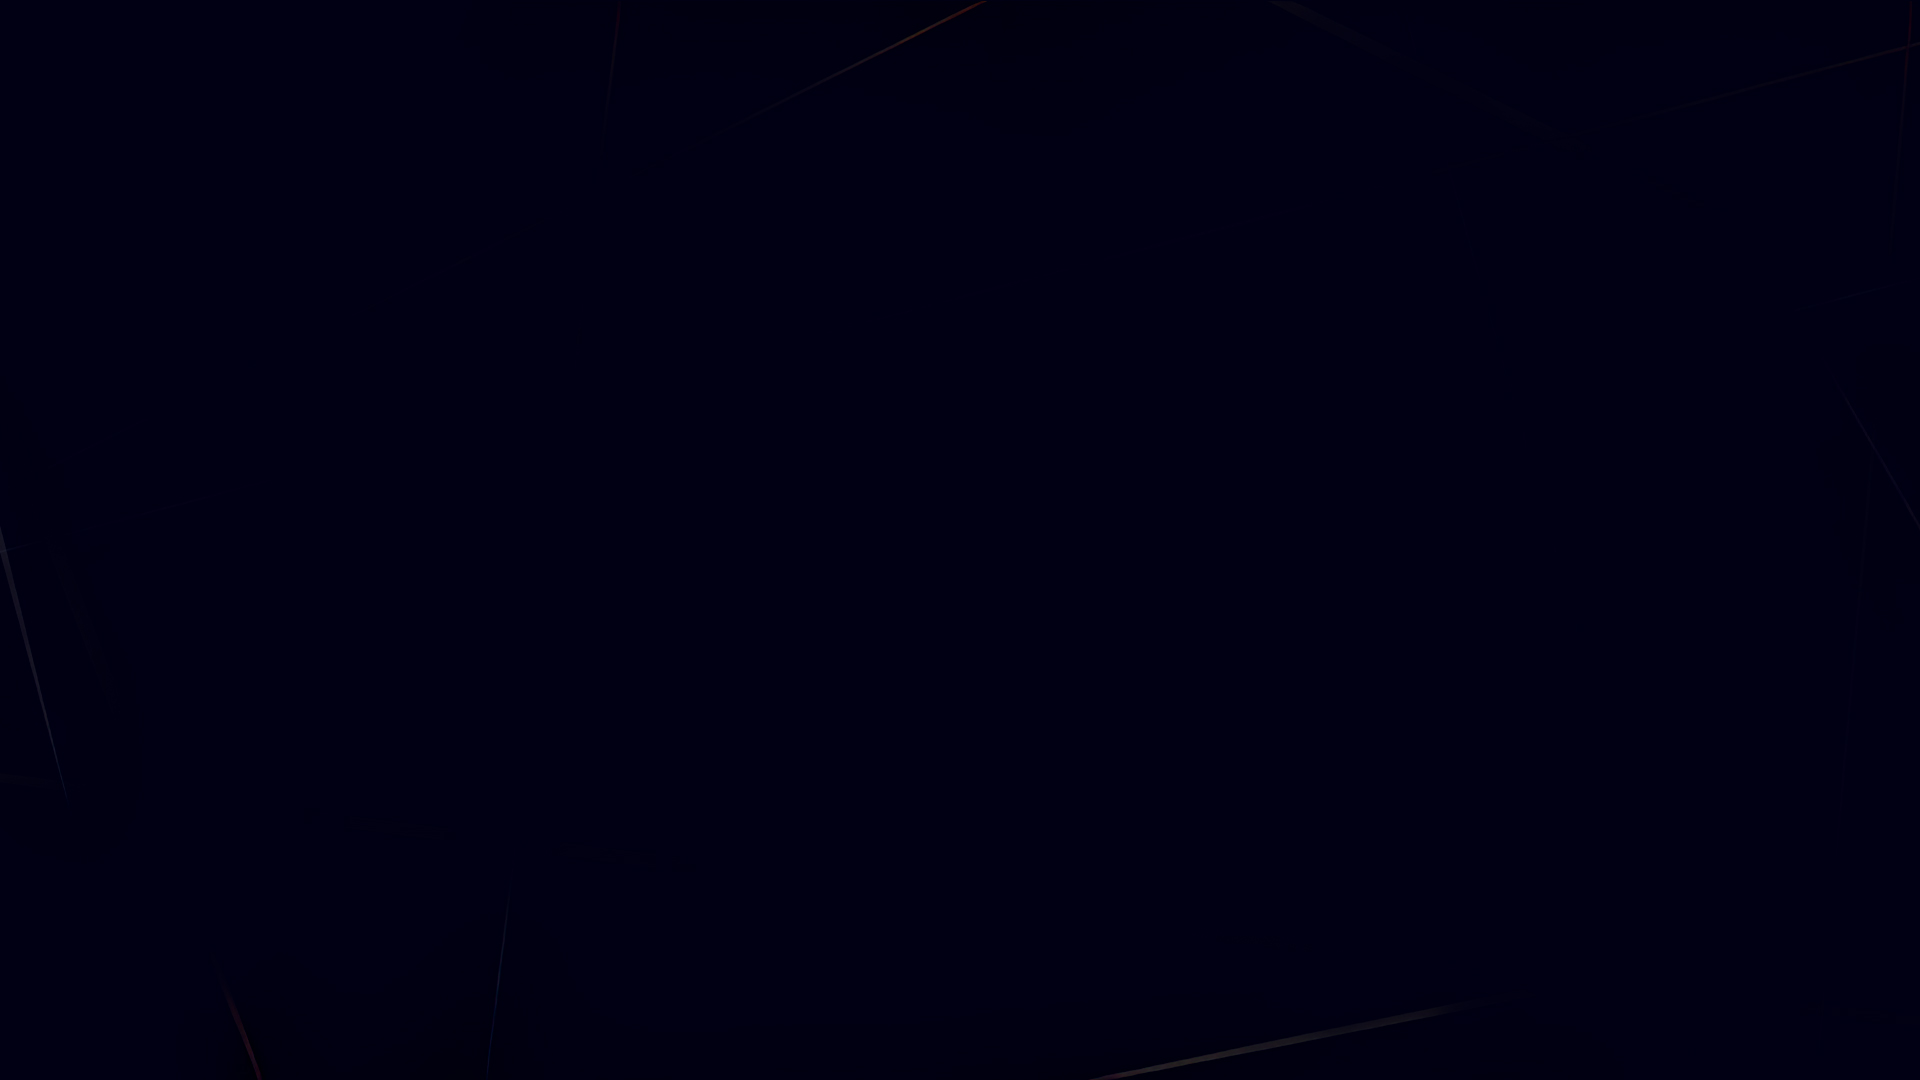
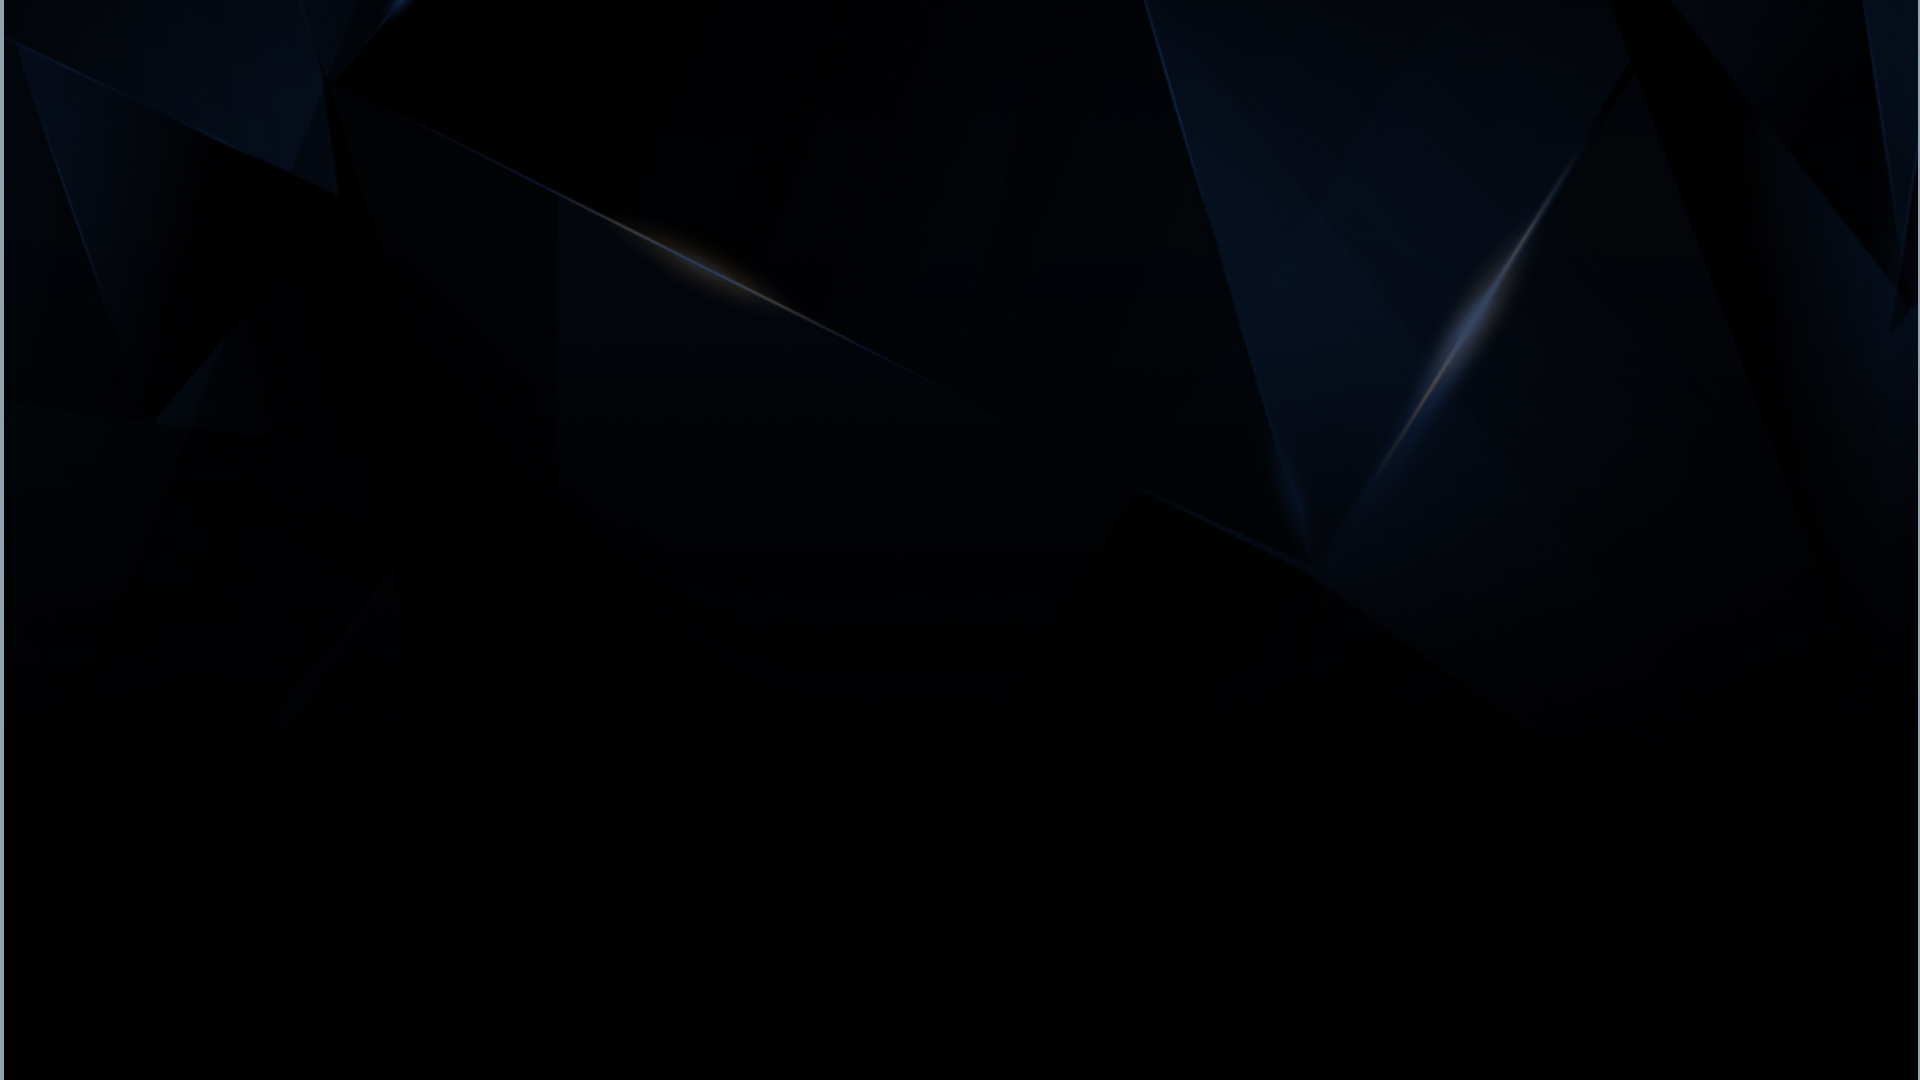
adicionadas mais artes e troca de background pela 4 vez

diff --git a/src/components/front-page-carousel/Franqueado.js b/src/components/front-page-carousel/Franqueado.js
@@ -12,7 +12,7 @@ export function Franqueado() {
   return (
     <div className="max-w-tela bg-transparent flex justify-between items-center w-screen h-screen sm:px-36 px-7 py-7">
       <div className="w-1/2 mt-36">
-        <Image src={logoBig} alt="logoBig" width={400} height={400} />
+        <Image src={logoBig} alt="logoBig" width={561} height={602} />
       </div>
       <div className="flex flex-col items-center sm:w-1/2 w-1/3 text-left  mr-auto">
         <div data-aos="zoom-in-left" data-aos-duration="2500">

diff --git a/src/components/front-page-carousel/FreeCourse.js b/src/components/front-page-carousel/FreeCourse.js
@@ -12,7 +12,7 @@ export function FreeCourse() {
   return (
     <div className="max-w-tela bg-transparent flex justify-between items-center w-screen h-screen sm:px-36 px-7 py-7">
       <div className="w-1/2 mt-36">
-        <Image src={logoBig} alt="logoBig" width={500} height={775} />
+        <Image src={logoBig} alt="logoBig" width={579} height={620} />
       </div>
       <div className="flex flex-col items-center sm:w-1/2 w-1/3 text-left  mr-auto">
         <h1

diff --git a/src/pages/nossas-empresas/comunidade-mulheres-investidoras.js b/src/pages/nossas-empresas/comunidade-mulheres-investidoras.js
@@ -15,8 +15,7 @@ export default function ComunidadeMulheres() {
           <h1 className=" sm:text-4xl text-2xl">
             COMUNIDADE MULHERES INVESTIDORAS
           </h1>
-          <h1 className=" sm:text-4xl text-2xl"
-          >
+          <h1 className=" sm:text-4xl text-2xl">
             Fazendo nossas próprias escolhas.
           </h1>
           <br />

diff --git a/src/components/front-page-carousel/Ebook.js b/src/components/front-page-carousel/Ebook.js
@@ -57,8 +57,8 @@ export function Ebook() {
           </Link>
         </div>
       </div>
-      <div className="w-1/2 sm:mt-40">
-        <Image src={logoBig} alt="logoBig" width={500} height={675} />
+      <div className="w-1/2">
+        <Image src={logoBig} alt="logoBig" width={601} height={724} />
       </div>
     </div>
   );

diff --git a/src/components/front-page-carousel/FollowUs.js b/src/components/front-page-carousel/FollowUs.js
@@ -14,7 +14,7 @@ export function FollowUs(props) {
         <span>SIGA NOSSAS REDES SOCIAIS</span>
       </div>
       <div className="sm:mt-52 m-0">
-        <Image src={celular} alt="celular" width={500} height={675} />
+        <Image src={celular} alt="celular" width={697} height={985} />
       </div>
     </div>
   );

diff --git a/src/components/front-page-carousel/SmartAcademy.js b/src/components/front-page-carousel/SmartAcademy.js
@@ -26,7 +26,7 @@ export function SmartAcademy() {
         </div>
       </div>
       <div className="w-1/2">
-        <Image src={logoBig} alt="logoBig" width={400} height={540} />
+        <Image src={logoBig} alt="logoBig" width={837} height={418} />
       </div>
     </div>
   );

diff --git a/src/components/TabCarousel.js b/src/components/TabCarousel.js
@@ -89,7 +89,7 @@ export default function Tabs2() {
       }}
       infiniteLoop={true}
       onChange={(current) => {
-        setSelected(0);
+        setSelected(69);
         setTimeout(() => {
           setSelected(current);
         }, 1300);
